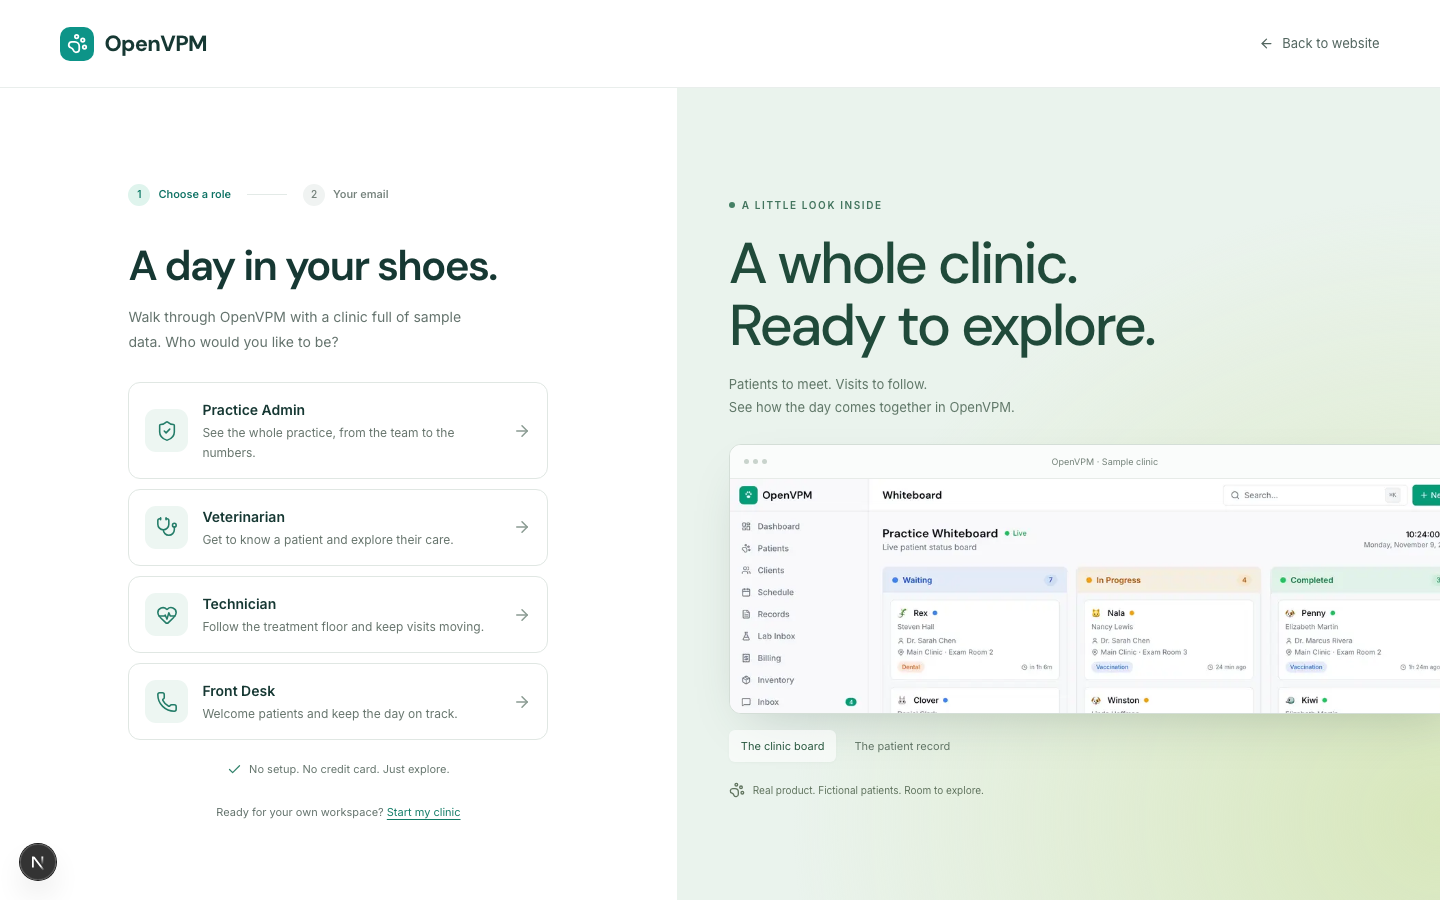
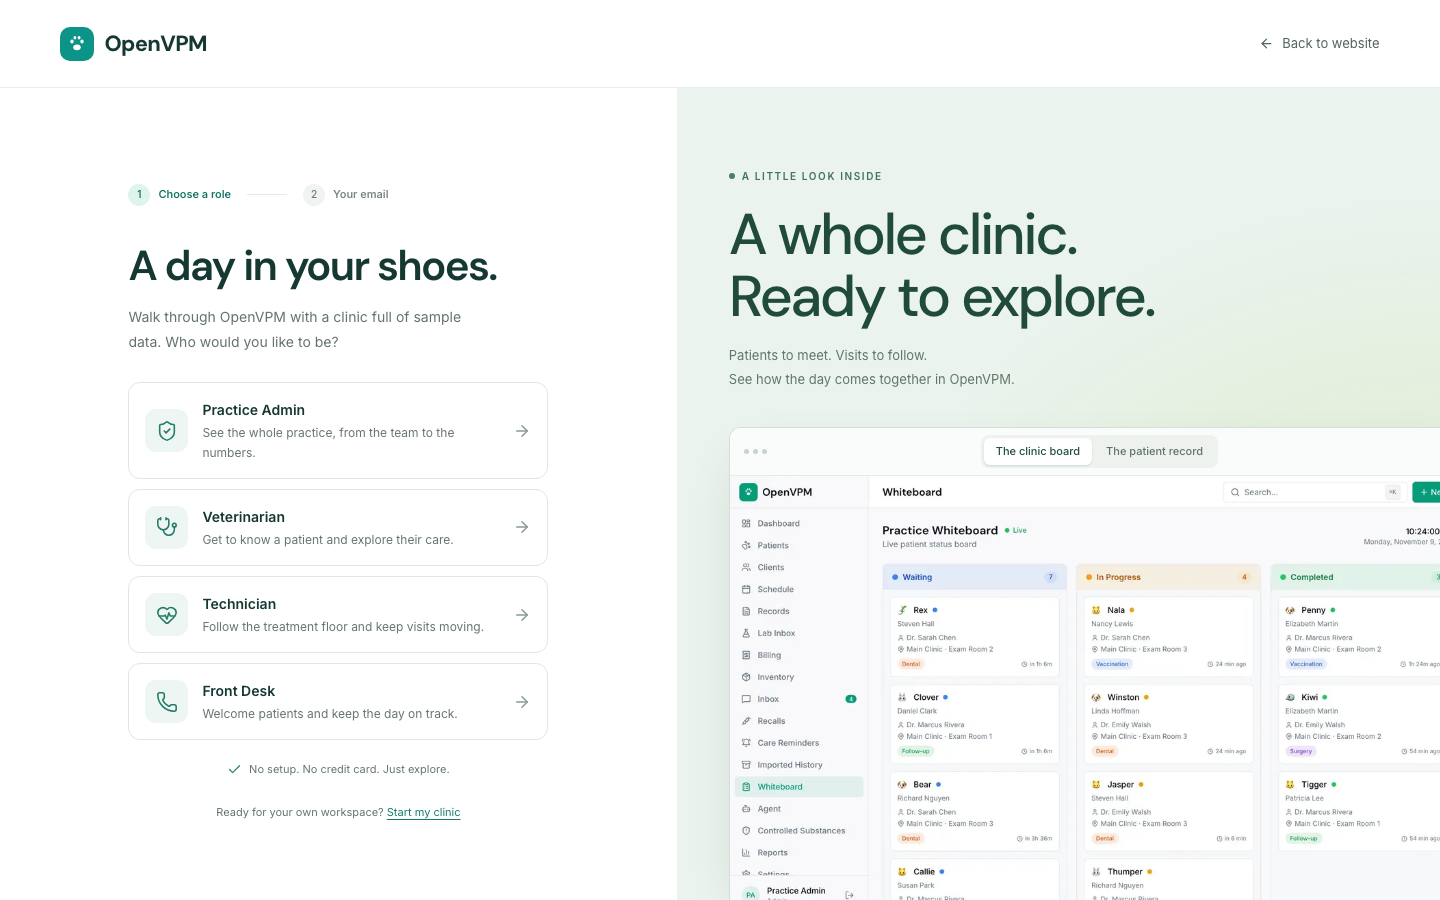
Show the OpenVPM mark and a full-height product preview on the demo entry (#422)
The demo entry header now uses the OpenVPM paw mark from the product
instead of a generic icon. The product preview fills the rest of the
showcase panel down to the bottom edge, with the clinic board and
patient record switch moved into the preview's top bar. The sample-data
footnote is removed now that the preview carries the panel.

diff --git a/apps/web/components/demo/demo-login.tsx b/apps/web/components/demo/demo-login.tsx
@@ -11,11 +11,11 @@ import {
   CheckCircle2,
   HeartPulse,
   LockKeyhole,
-  PawPrint,
   Phone,
   ShieldCheck,
   Stethoscope,
 } from "lucide-react";
+import { PawMark } from "@/components/brand/paw-mark";
 import { DEMO_ROLE_OPTIONS } from "@/lib/demo-role-switcher";
 import { AUTH_EMAIL_MAX_LENGTH } from "@/lib/auth-input-policy";
 import { safeAuthNextPath } from "@/lib/auth-redirect";
@@ -57,12 +57,22 @@ const shots = {
   whiteboard: {
     src: "/demo/whiteboard.jpg",
     alt: "OpenVPM sample clinic: the clinic board",
+    width: 1280,
+    height: 800,
+    fit: styles.productImageFill,
   },
   "visit-clinical-work": {
     src: "/demo/patient-record.jpg",
     alt: "OpenVPM sample clinic: a patient record",
+    width: 1040,
+    height: 448,
+    fit: styles.productImageTop,
   },
 };
+const previewTabs = [
+  { id: "whiteboard", label: "The clinic board" },
+  { id: "visit-clinical-work", label: "The patient record" },
+] as const;
 function ProductImage({
   id,
   priority = false,
@@ -75,11 +85,11 @@ function ProductImage({
     <Image
       src={shot.src}
       alt={shot.alt}
-      width={1280}
-      height={800}
+      width={shot.width}
+      height={shot.height}
       sizes="(max-width: 760px) 100vw, 65vw"
       priority={priority}
-      className={styles.productImage}
+      className={`${styles.productImage} ${shot.fit}`}
     />
   );
 }
@@ -92,7 +102,8 @@ export function DemoLogin() {
   const [role, setRole] = useState<(typeof demoRoles)[number] | null>(null);
   const [step, setStep] = useState<"role" | "email">("role");
   const [email, setEmail] = useState("");
-  const [previewTab, setPreviewTab] = useState(0);
+  const [previewTab, setPreviewTab] =
+    useState<(typeof previewTabs)[number]["id"]>("whiteboard");
   const [error, setError] = useState("");
   const [loading, setLoading] = useState(false);
   const submitting = useRef(false);
@@ -152,7 +163,7 @@ export function DemoLogin() {
           className={styles.brand}
         >
           <span>
-            <PawPrint size={21} aria-hidden="true" />
+            <PawMark className={styles.brandMark} />
           </span>
           OpenVPM
         </a>
@@ -344,32 +355,24 @@ export function DemoLogin() {
                 <i />
                 <i />
               </span>
-              <span>OpenVPM · Sample clinic</span>
-              <LockKeyhole size={12} aria-hidden="true" />
+              <div
+                className={styles.previewTabs}
+                role="group"
+                aria-label="Product preview"
+              >
+                {previewTabs.map((tab) => (
+                  <button
+                    key={tab.id}
+                    aria-pressed={previewTab === tab.id}
+                    onClick={() => setPreviewTab(tab.id)}
+                  >
+                    {tab.label}
+                  </button>
+                ))}
+              </div>
             </div>
-            <ProductImage
-              id={previewTab === 0 ? "whiteboard" : "visit-clinical-work"}
-              priority
-            />
+            <ProductImage id={previewTab} priority />
           </div>
-          <div className={styles.previewTabs} aria-label="Product preview">
-            <button
-              aria-pressed={previewTab === 0}
-              onClick={() => setPreviewTab(0)}
-            >
-              The clinic board
-            </button>
-            <button
-              aria-pressed={previewTab === 1}
-              onClick={() => setPreviewTab(1)}
-            >
-              The patient record
-            </button>
-          </div>
-          <p className={styles.sampleNote}>
-            <PawPrint size={16} aria-hidden="true" />
-            Real product. Fictional patients. Room to explore.
-          </p>
         </aside>
       </div>
     </main>

diff --git a/apps/web/components/demo/demo-login.module.css b/apps/web/components/demo/demo-login.module.css
@@ -41,6 +41,10 @@
   color: white;
   background: #0d9488;
 }
+.brandMark {
+  width: 20px;
+  height: 20px;
+}
 .backLink {
   display: inline-flex;
   align-items: center;
@@ -188,8 +192,7 @@
   overflow: hidden;
   display: flex;
   flex-direction: column;
-  justify-content: center;
-  padding: 32px 0 24px 52px;
+  padding: clamp(40px, 9svh, 104px) 0 0 52px;
   background:
     radial-gradient(ellipse at 100% 90%, #d8e7bc 0, transparent 60%), #eaf3ed;
 }
@@ -226,26 +229,28 @@
   color: #617869;
 }
 .previewWindow {
+  flex: 1 1 0;
+  min-height: 340px;
+  display: flex;
+  flex-direction: column;
   width: calc(100% + 30px);
-  height: clamp(220px, 30svh, 300px);
-  margin-top: 24px;
+  margin-top: 36px;
   border: 1px solid #d4ded7;
-  border-radius: 12px 0 0 12px;
+  border-bottom: 0;
+  border-radius: 12px 0 0 0;
   overflow: hidden;
   box-shadow: 0 20px 50px -22px #2f493e45;
   background: #fff;
 }
 .browserBar {
-  display: flex;
+  display: grid;
+  grid-template-columns: 1fr auto 1fr;
   align-items: center;
-  justify-content: space-between;
   gap: 12px;
-  min-height: 34px;
-  padding: 9px 14px;
+  flex-shrink: 0;
+  padding: 7px 14px;
   border-bottom: 1px solid #e7ebe8;
   background: #fafcfb;
-  color: #738178;
-  font-size: 9px;
 }
 .browserDots {
   display: flex;
@@ -259,33 +264,44 @@
 }
 .productImage {
   display: block;
+  flex: 1 1 0;
+  min-height: 0;
   width: 100%;
-  height: auto;
+}
+.productImageFill {
+  object-fit: cover;
+  object-position: left top;
+}
+.productImageTop {
+  object-fit: contain;
+  object-position: center top;
+  background: #f9f9fb;
 }
 .previewTabs {
   display: flex;
-  gap: 6px;
-  margin-top: 16px;
+  gap: 2px;
+  padding: 3px;
+  border-radius: 8px;
+  background: #edf2ef;
 }
 .previewTabs button {
-  padding: 8px 12px;
+  padding: 5px 12px;
   border-radius: 6px;
   font-size: 11px;
+  font-weight: 500;
+  white-space: nowrap;
   color: #607465;
+  transition:
+    background 150ms,
+    color 150ms;
+}
+.previewTabs button:hover {
+  color: #28583f;
 }
 .previewTabs button[aria-pressed="true"] {
-  background: #fff9;
-  color: #28583f;
-  box-shadow: 0 1px 3px #12302308;
-}
-.sampleNote {
-  display: flex;
-  gap: 8px;
-  align-items: center;
-  font-size: 10px;
-  color: #61745f;
-  margin-top: 20px;
-  padding-right: 20px;
+  background: #fff;
+  color: #1f4f3c;
+  box-shadow: 0 1px 2px #1230231f;
 }
 .changeRole {
   display: flex;
@@ -382,9 +398,6 @@
   .showcase {
     padding-left: 80px;
   }
-  .previewWindow {
-    max-width: 900px;
-  }
   .role {
     padding: 20px;
   }
@@ -442,25 +455,24 @@
     font-size: 12px;
   }
   .showcase {
-    padding: 36px 24px;
+    padding: 36px 24px 0;
   }
   .showcaseCopy h2 {
     font-size: 42px;
   }
   .previewWindow {
+    flex: none;
+    height: 320px;
+    min-height: 0;
     width: 100%;
-    border-radius: 10px;
-  }
-  .previewTabs {
-    margin-top: 14px;
-  }
-  .sampleNote {
-    margin-top: 20px;
+    margin-top: 28px;
+    border-radius: 10px 10px 0 0;
   }
 }
 @media (prefers-reduced-motion: reduce) {
   .role,
-  .primary {
+  .primary,
+  .previewTabs button {
     transition: none;
   }
   .role:hover {
